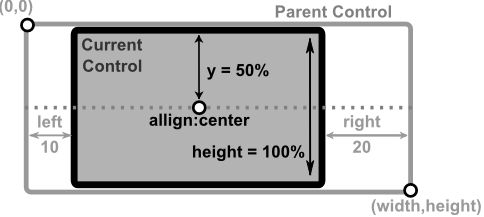
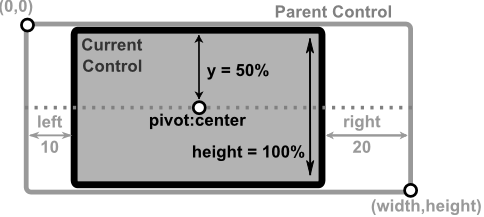
Improve documentation for top=bottom and left-right anchors

Changed region(s): [[0.3099, 0.5253, 0.5269, 0.6083]]

diff --git a/docs/chapter-3/layout/anchors.md b/docs/chapter-3/layout/anchors.md
@@ -65,17 +65,26 @@ where:
 
 ## Using Left-Right anchors
 
-When `left` and `right` anchors are used together, there are several restrictions. First of all, `width` and `x` parameters cannot be specified. Width is deduced as the difference between parent's width and the sum of left and right anchors. Left anchor will also be considered as the "x" coordinate.
-However, `height` parameter should be specified (if not specified it will be defaulted to `1 character` (unless a minimum height is specified for those controls - in which case that limit will be applied)).
-`align` parameter can also be specified, but only with the following values: `top`, `center` or `bottom`. If not specified it will be defaulted to `center`.
+When `left` and `right` anchors are used together, there are several restrictions. 
+1. `width` can not be specified, as it will be deduced as the difference between parent's width and the sum of left and right anchors.
+2. `x` parameter cannot be specified, as it will be deduced from the `pivot` position. For exameple:
+   - if `pivot` is set to `TopLeft`, `BottomLeft` or `CenterLeft`, the `x` coordinate will be equal to the `left` anchor value.
+   - if `pivot` is set to `TopRight`, `BottomRight` or `CenterRight`, the `x` coordinate will be equal to the difference between parent's width and the `right` anchor value.
+   - if `pivot` is set to `Center`, `TopCenter` or `BottomCenter` the `x` coordinate will be equal to the midle of the space between the  `left` and `right` anchors.
+3. `height` parameter should be specified (if not specified it will be defaulted to `1 character` (unless a minimum height is specified for those controls - in which case that limit will be applied)
+4. `y` parameter must be specified, and it will be considered reference point for the `pivot` position. For example:
+   - if `pivot` is set to `TopLeft`, `TopCenter`, or `TopRight`, the `y` coordinate will be equal to the `top` anchor value.
+   - if `pivot` is set to `BottomLeft`, `BottomCenter`, or `BottomRight`, the `y` coordinate will be equal to the difference between parent's height and the sum between `bottom` anchor value and the control's height.
+   - if `pivot` is set to `Center`, `CenterLeft` or `CenterRight` the control will be centered on the Y-axes around the `y` parameter value.
 
 ### Visual Representation
 
-| Layout Description                                                                                                                                         | Visual representation                              |
-| ---------------------------------------------------------------------------------------------------------------------------------------------------------- | -------------------------------------------------- |
-| A control with **left** and **right** anchors, positioned at `y` = **80%** of parent height with `height` = **20** characters and **bottom** pivot         | <img src="img/layout_anchor_lr_1.png" width=800 /> |
-| A control with **left** and **right** anchors, positioned at `y` = **50%** of parent height with `height` = **100%** of parent height and **center** pivot | <img src="img/layout_anchor_lr_2.png" width=800 /> |
-| A control with **left** and **right** anchors, positioned at `y` = **0** with `height` = **50%** of parent height and **top** pivot                        | <img src="img/layout_anchor_lr_3.png" width=800 /> |
+| Layout Description                                                                                                                                                                                                         | Visual representation                              |
+| -------------------------------------------------------------------------------------------------------------------------------------------------------------------------------------------------------------------------- | -------------------------------------------------- |
+| A control with **left** and **right** anchors, positioned at `y` = **80%** of parent height with `height` = **20** characters and **bottom** pivot                                                                         | <img src="img/layout_anchor_lr_1.png" width=800 /> |
+| A control with **left** and **right** anchors, positioned at `y` = **50%** of parent height with `height` = **100%** of parent height and **center** pivot                                                                 | <img src="img/layout_anchor_lr_2.png" width=800 /> |
+| A control with **left** and **right** anchors, positioned at `y` = **0** with `height` = **50%** of parent height and **top** pivot                                                                                        | <img src="img/layout_anchor_lr_3.png" width=800 /> |
+| A control with **left** and **right** anchors, positioned at `y` = **80** of teh parent height, with `height` = **50%** of parent height, a fix-width that can not be streched of 50 characters and **bottom-right** pivot | <img src="img/layout_anchor_lr_4.png" width=800 /> |
 
 ### Examples
 
@@ -111,17 +120,27 @@ However, `height` parameter should be specified (if not specified it will be def
 
 ## Using Top-Bottom anchors
 
-When `top` and `bottom` anchors are used together, there are several restrictions. First of all, `height` and `y` parameters cannot be specified. Height is deduced as the difference between parent's height and the sum of top and bottom anchors. Top anchor will also be considered as the "y" coordinate.
-However, `width` parameter should be specified (if not specified it will be defaulted to `1 character` (unless a minimum width is specified for those controls - in which case that limit will be applied)).
-`align` parameter can also be specified, but only with the following values: `left`, `center` or `right`. If not specified it will be defaulted to `center`.
+When `top` and `bottom` anchors are used together, there are several restrictions. 
+1. `height` can not be specified, as it will be deduced as the difference between parent's height and the sum of top and bottom anchors.
+2. `y` parameter cannot be specified, as it will be deduced from the `pivot` position. For example:
+   - if `pivot` is set to `TopLeft`, `TopCenter`, or `TopRight`, the `y` coordinate will be equal to the `top` anchor value.
+   - if `pivot` is set to `BottomLeft`, `BottomCenter`, or `BottomRight`, the `y` coordinate will be equal to the difference between parent's height and the sum of the  `bottom` anchor value with the controls height.
+   - if `pivot` is set to `Center`, `CenterLeft` or `CenterRight` the control will be centered on the Y-axes around the midle of the space between the top and bottom anchors.
+3. `width` parameter should be specified (if not specified it will be defaulted to `1 character` (unless a minimum width is specified for those controls - in which case that limit will be applied)
+4. `x` parameter must be specified, and it will be considered reference point for the `pivot` position. For example:
+   - if `pivot` is set to `TopLeft`, `CenterLeft`, or `BottomLeft`, the `x` coordinate will be equal to the `left` anchor value.
+   - if `pivot` is set to `TopRight`, `CenterRight`, or `BottomRight`, the `x` coordinate will be equal to the difference between parent's width and the sum of the  `right` anchor value with the controls width.
+   - if `pivot` is set to `Center`, `TopCenter` or `BottomCenter` the control will be centered on the X-axes around the midle of the space between the left and right anchors.
+
 
 ### Visual Representation
 
-| Layout Description                                                                                                                                      | Visual representation                              |
-| ------------------------------------------------------------------------------------------------------------------------------------------------------- | -------------------------------------------------- |
-| A control with **top** and **bottom** anchors, positioned at `x` = **80%** of parent width with `width` = **90** characters and **right** pivot         | <img src="img/layout_anchor_tb_1.png" width=800 /> |
-| A control with **top** and **bottom** anchors, positioned at `x` = **50%** of parent width with `width` = **100%** of parent width and **center** pivot | <img src="img/layout_anchor_tb_2.png" width=800 /> |
-| A control with **top** and **bottom** anchors, positioned at `x` = **0** with `width` = **50%** of parent width and **left** pivot                      | <img src="img/layout_anchor_tb_3.png" width=800 /> |
+| Layout Description                                                                                                                                                                                | Visual representation                              |
+| ------------------------------------------------------------------------------------------------------------------------------------------------------------------------------------------------- | -------------------------------------------------- |
+| A control with **top** and **bottom** anchors, positioned at `x` = **80%** of parent width with `width` = **90** characters and **right** pivot                                                   | <img src="img/layout_anchor_tb_1.png" width=800 /> |
+| A control with **top** and **bottom** anchors, positioned at `x` = **50%** of parent width with `width` = **100%** of parent width and **center** pivot                                           | <img src="img/layout_anchor_tb_2.png" width=800 /> |
+| A control with **top** and **bottom** anchors, positioned at `x` = **0** with `width` = **50%** of parent width and **left** pivot                                                                | <img src="img/layout_anchor_tb_3.png" width=800 /> |
+| A control with **top** and **bottom** anchors, positioned at `x` = **70%** of parent width with `width` = **50%** of parent width, a fix height of **20 characters** and a **bottom-right** pivot | <img src="img/layout_anchor_tb_4.png" width=800 /> |
 
 ### Examples
 
